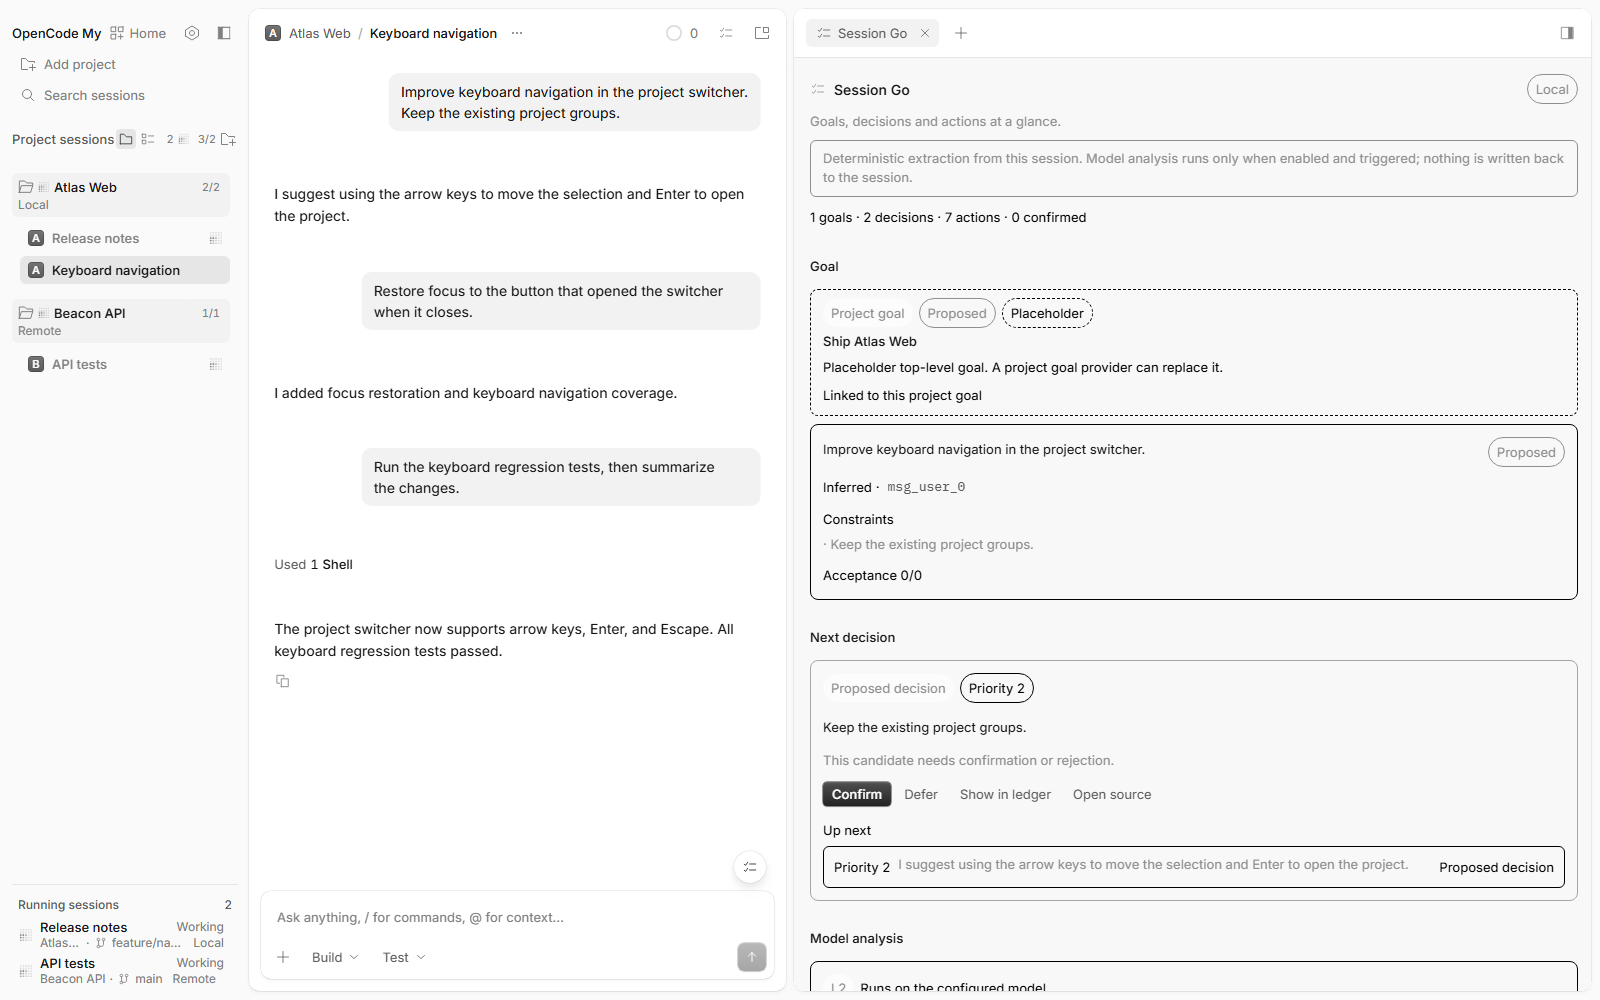
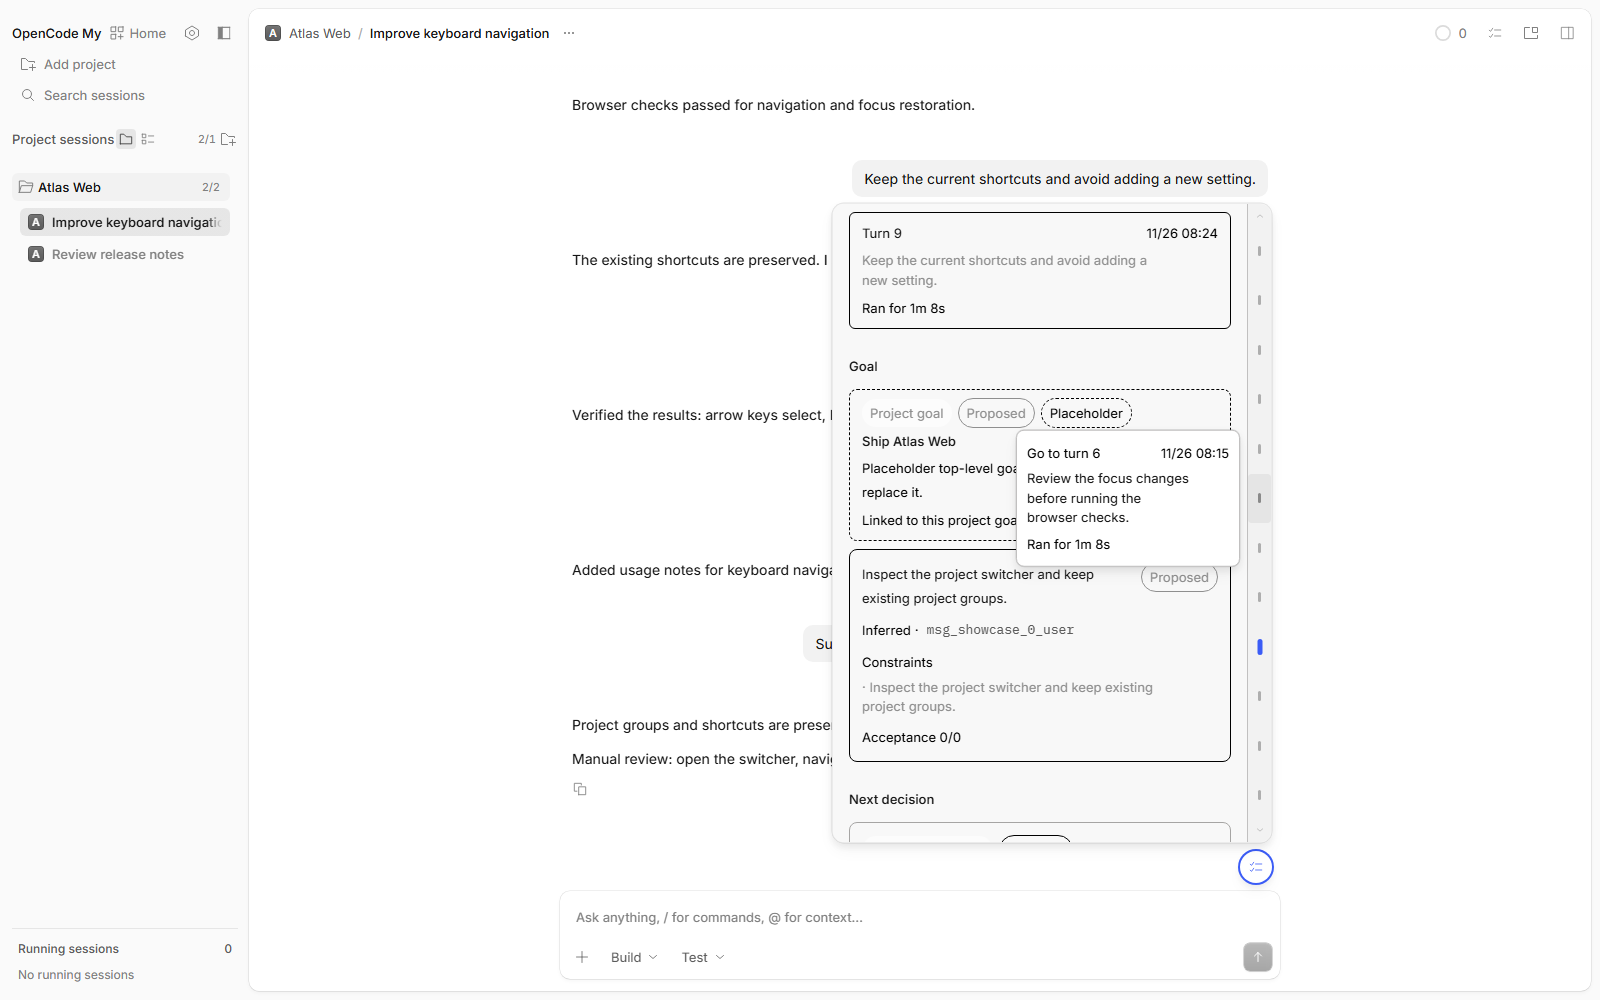
docs(dev-my): show Session Go floating controls

diff --git a/README.md b/README.md
@@ -65,9 +65,13 @@ These full-window screenshots use sample data from the desktop interface build.
 
   <img src="docs/fork/dev-my/side-bar-en.png" alt="Full window with the Side bar project groups, cross-server running sessions, and the current conversation and composer">
 
-- **Session Go** · Review goals, decision candidates, and actions in the right-hand panel alongside the original conversation.
+- **Session Go: floating button and hint** · Hover over the button above Send to preview the three most recent user turns and their run times. Click it to open the floating window.
 
-  <img src="docs/fork/dev-my/session-go-en.png" alt="Full window with the Side bar, session timeline, composer, and Session Go review panel">
+  <img src="docs/fork/dev-my/session-go-fab-en.png" alt="Session Go floating button above the composer and its hover hint with the three most recent turns">
+
+- **Session Go: floating window and turn rail** · Select a turn from the rail on the right to jump to its source. Hover over a marker to preview another turn and its run time while keeping the current selection.
+
+  <img src="docs/fork/dev-my/session-go-en.png" alt="Session Go floating window with the selected turn, vertical turn rail, highlighted marker, and another turn's hover preview">
 
 - **Custom models** · Open **Custom providers** from the model picker to fetch models or add them manually. Test a saved model and see the result alongside its configuration.
 

diff --git a/docs/fork/sources.md b/docs/fork/sources.md
@@ -25,6 +25,7 @@
 ## 首页与界面截图
 
 - 根目录的 [英文 README](../../README.md) 和 [中文 README](../../README.zh.md) 分别展示 OpenCode My 的 Side bar 和自定义模型，并链接官方 OpenCode README。
+- 2026-11-26 重拍 Session Go 中英文截图：`dev-my/session-go-fab-{zh,en}.png` 展示悬浮按钮和最近三轮提示，`dev-my/session-go-{zh,en}.png` 展示悬浮窗口、轮次轨道与标记预览。来源为 `dev-my@39c176e3e5bcf21376a1836bc9a7d2d1b761cc52`（应用代码与已验收候选版 `e2941c8ef0` 相同），使用正式构建的真实生产组件和隔离示例会话，通过真实悬停、点击与跳转操作截图，没有拼接或修改界面。Session Go 标签保留程序实际的英文回退。
 - `dev-my/sidetab-overview-light.png` 与 `dev-my/sidetab-overview-dark.png` 取自 [PR #60446](https://github.com/anomalyco/opencode/pull/60446) 的 after 截图，原始文件位于贡献分支提交 `58b91857b0849d2aea7d8ecbeda066f435fd85b6`。画面使用合成项目与会话，三个标签打开、两个任务运行；该布局现在由本地 Side bar 承载，展示 Running sessions 与按项目分组，项目 `+` 快捷入口在后续提交中补充，不作为当前用户数据或逐像素基线。
 - 截图放在 fork 目录内并由本站 Markdown 引用，不依赖外部图片地址；更新界面后按同样方式替换，并在本节记录新来源提交。
 
